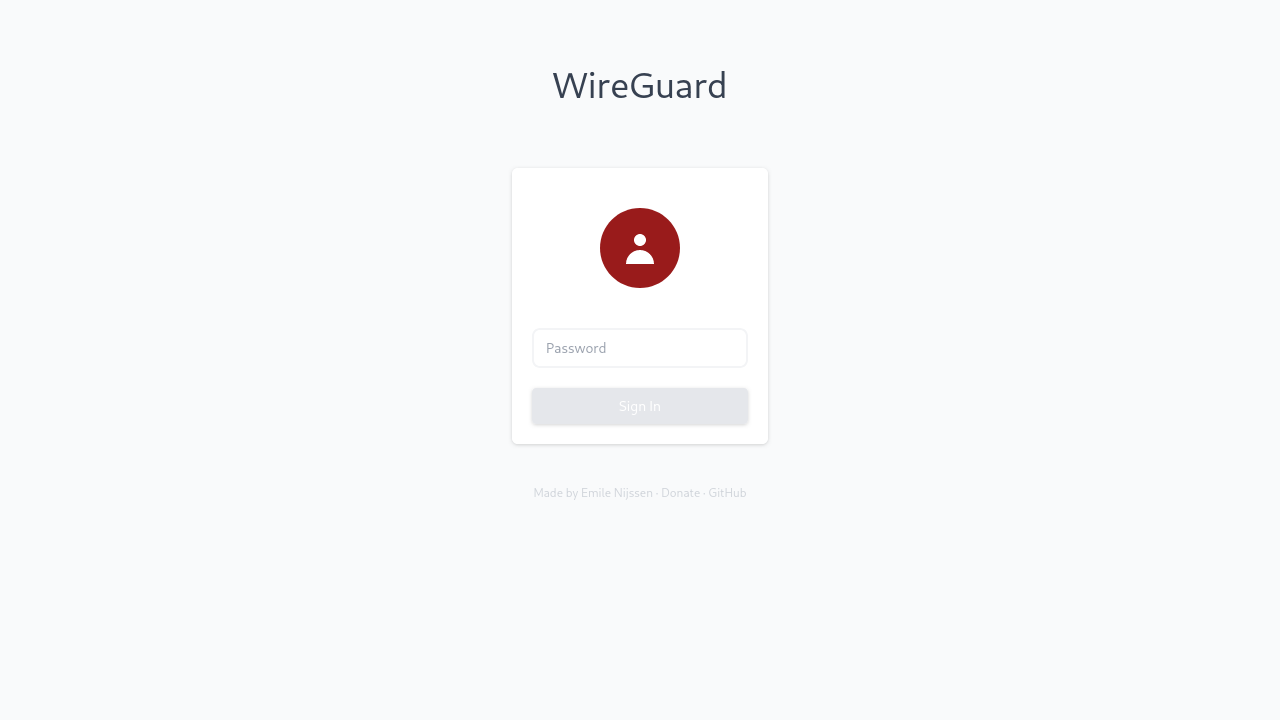
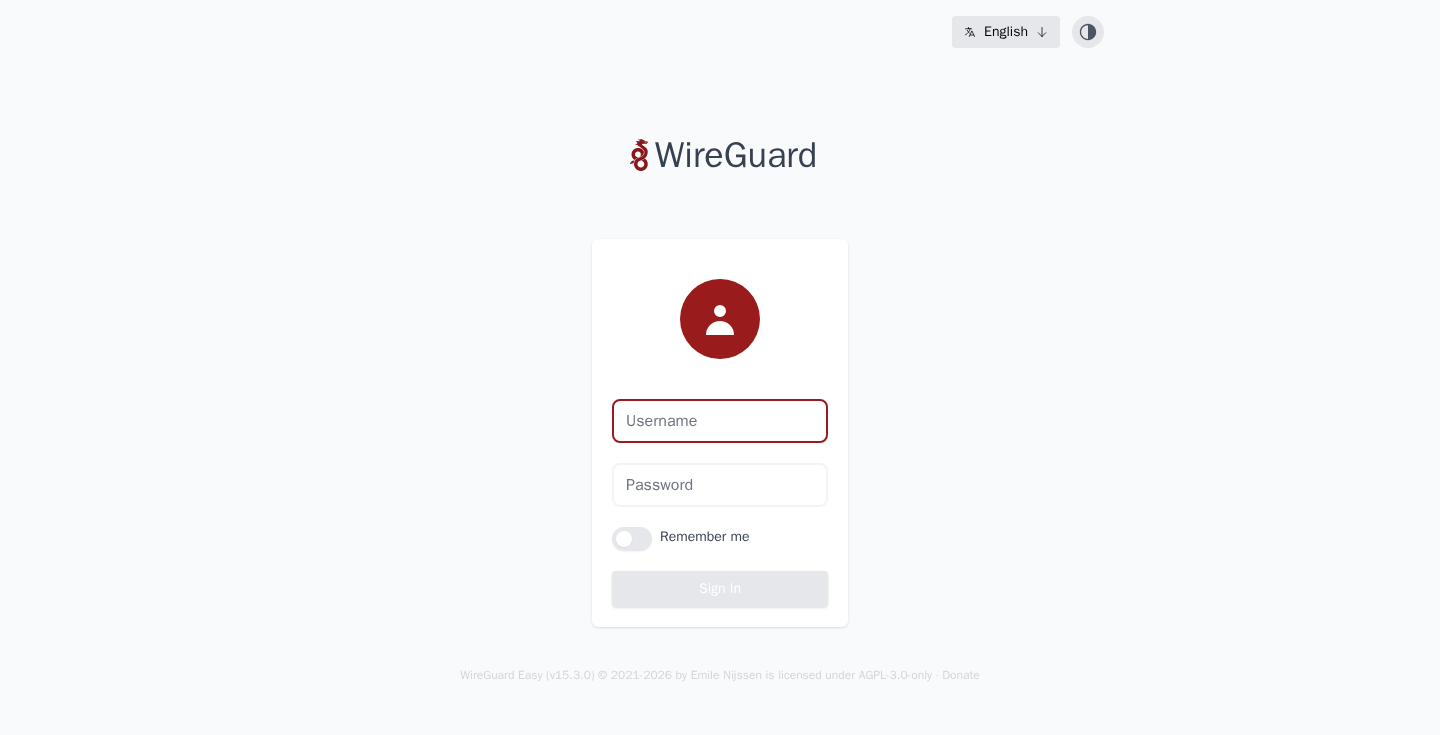
WireGuardEasyHost: fix compliance
Two findings, two changes. The application, its images and its versions are untouched.

1. no-published-web-port (Major). wg-easy runs with network_mode: host and listened on 0.0.0.0:51821, so its plain-HTTP UI answered on the PCS's public IP. The listing now sets wg-easy's documented `HOST` variable (v15 optional config: "IP address web UI binds to"). It is set to `host.docker.internal`, and the wgeasyhost service gets the same `extra_hosts: host.docker.internal:host-gateway` entry the proxy already has. The UI therefore binds only the Docker host-gateway address, which is exactly the address wgeasyhost-proxy dials, and not every host interface. Nothing is published with `ports:`. The only port reachable from outside is WireGuard's UDP 51820. The Tips text (en/fr, both blocks) and rationale.md said "the UI also binds host port 51821, firewall it". They now describe the new binding.

2. assets (Minor). All three screenshots were byte-copies of Apps/WireGuardEasy's. They have been replaced with new captures of this app running v15.3.0 on demostaging1: the username+password login, the client list on its 10.9.0.x subnet, and a client's detail page. icon.png and thumbnail.png were already this app's own and are unchanged.
[…]

diff --git a/Apps/WireGuardEasyHost/rationale.md b/Apps/WireGuardEasyHost/rationale.md
@@ -64,7 +64,8 @@ knowingly rather than inheriting it.
   and skip the gateway. The same step sets wg-easy's uplink device, which it hard-codes to
   `eth0`, to the host's actual default-route interface.
 - **A host-mode container cannot be a Caddy upstream**, which is why the web UI is not
-  served directly. `wgeasyhost` binds the UI on host port `51821`, and the bridged
+  served directly. `wgeasyhost` binds the UI on port `51821` of the host-gateway
+  address only, and the bridged
   `wgeasyhost-proxy` sidecar on the `pcs` network carries the gateway labels and
   forwards to it via `host.docker.internal`.
 
@@ -89,10 +90,11 @@ knowingly rather than inheriting it.
   VPN, `64m` / `cpu_shares: 80` for the proxy).
 - **The proxy image is pinned** to `nginx:1.29.3-alpine`, and its config ships in `seed/`
   (no CDN fetch at install time) and is bind-mounted read-only.
-- **Host port exposure is disclosed before install.** `tips.before_install` tells the
-  user that UDP `51820` must be open on their firewall and that the management UI also
-  binds host port `51821` over plain HTTP, with the advice to reach it through the
-  HTTPS gateway link and firewall `51821` otherwise.
+- **The web UI is not published on the host.** wg-easy's plain-HTTP UI port `51821`
+  is bound (`HOST`) to the Docker host-gateway address only — the address the proxy
+  dials as `host.docker.internal` — not to every host interface, so it cannot be
+  reached from the internet or the LAN, only through the proxy and the gateway.
+  `tips.before_install` tells the user that UDP `51820` must be open on their firewall.
 
 ## Alternatives considered and rejected
 
